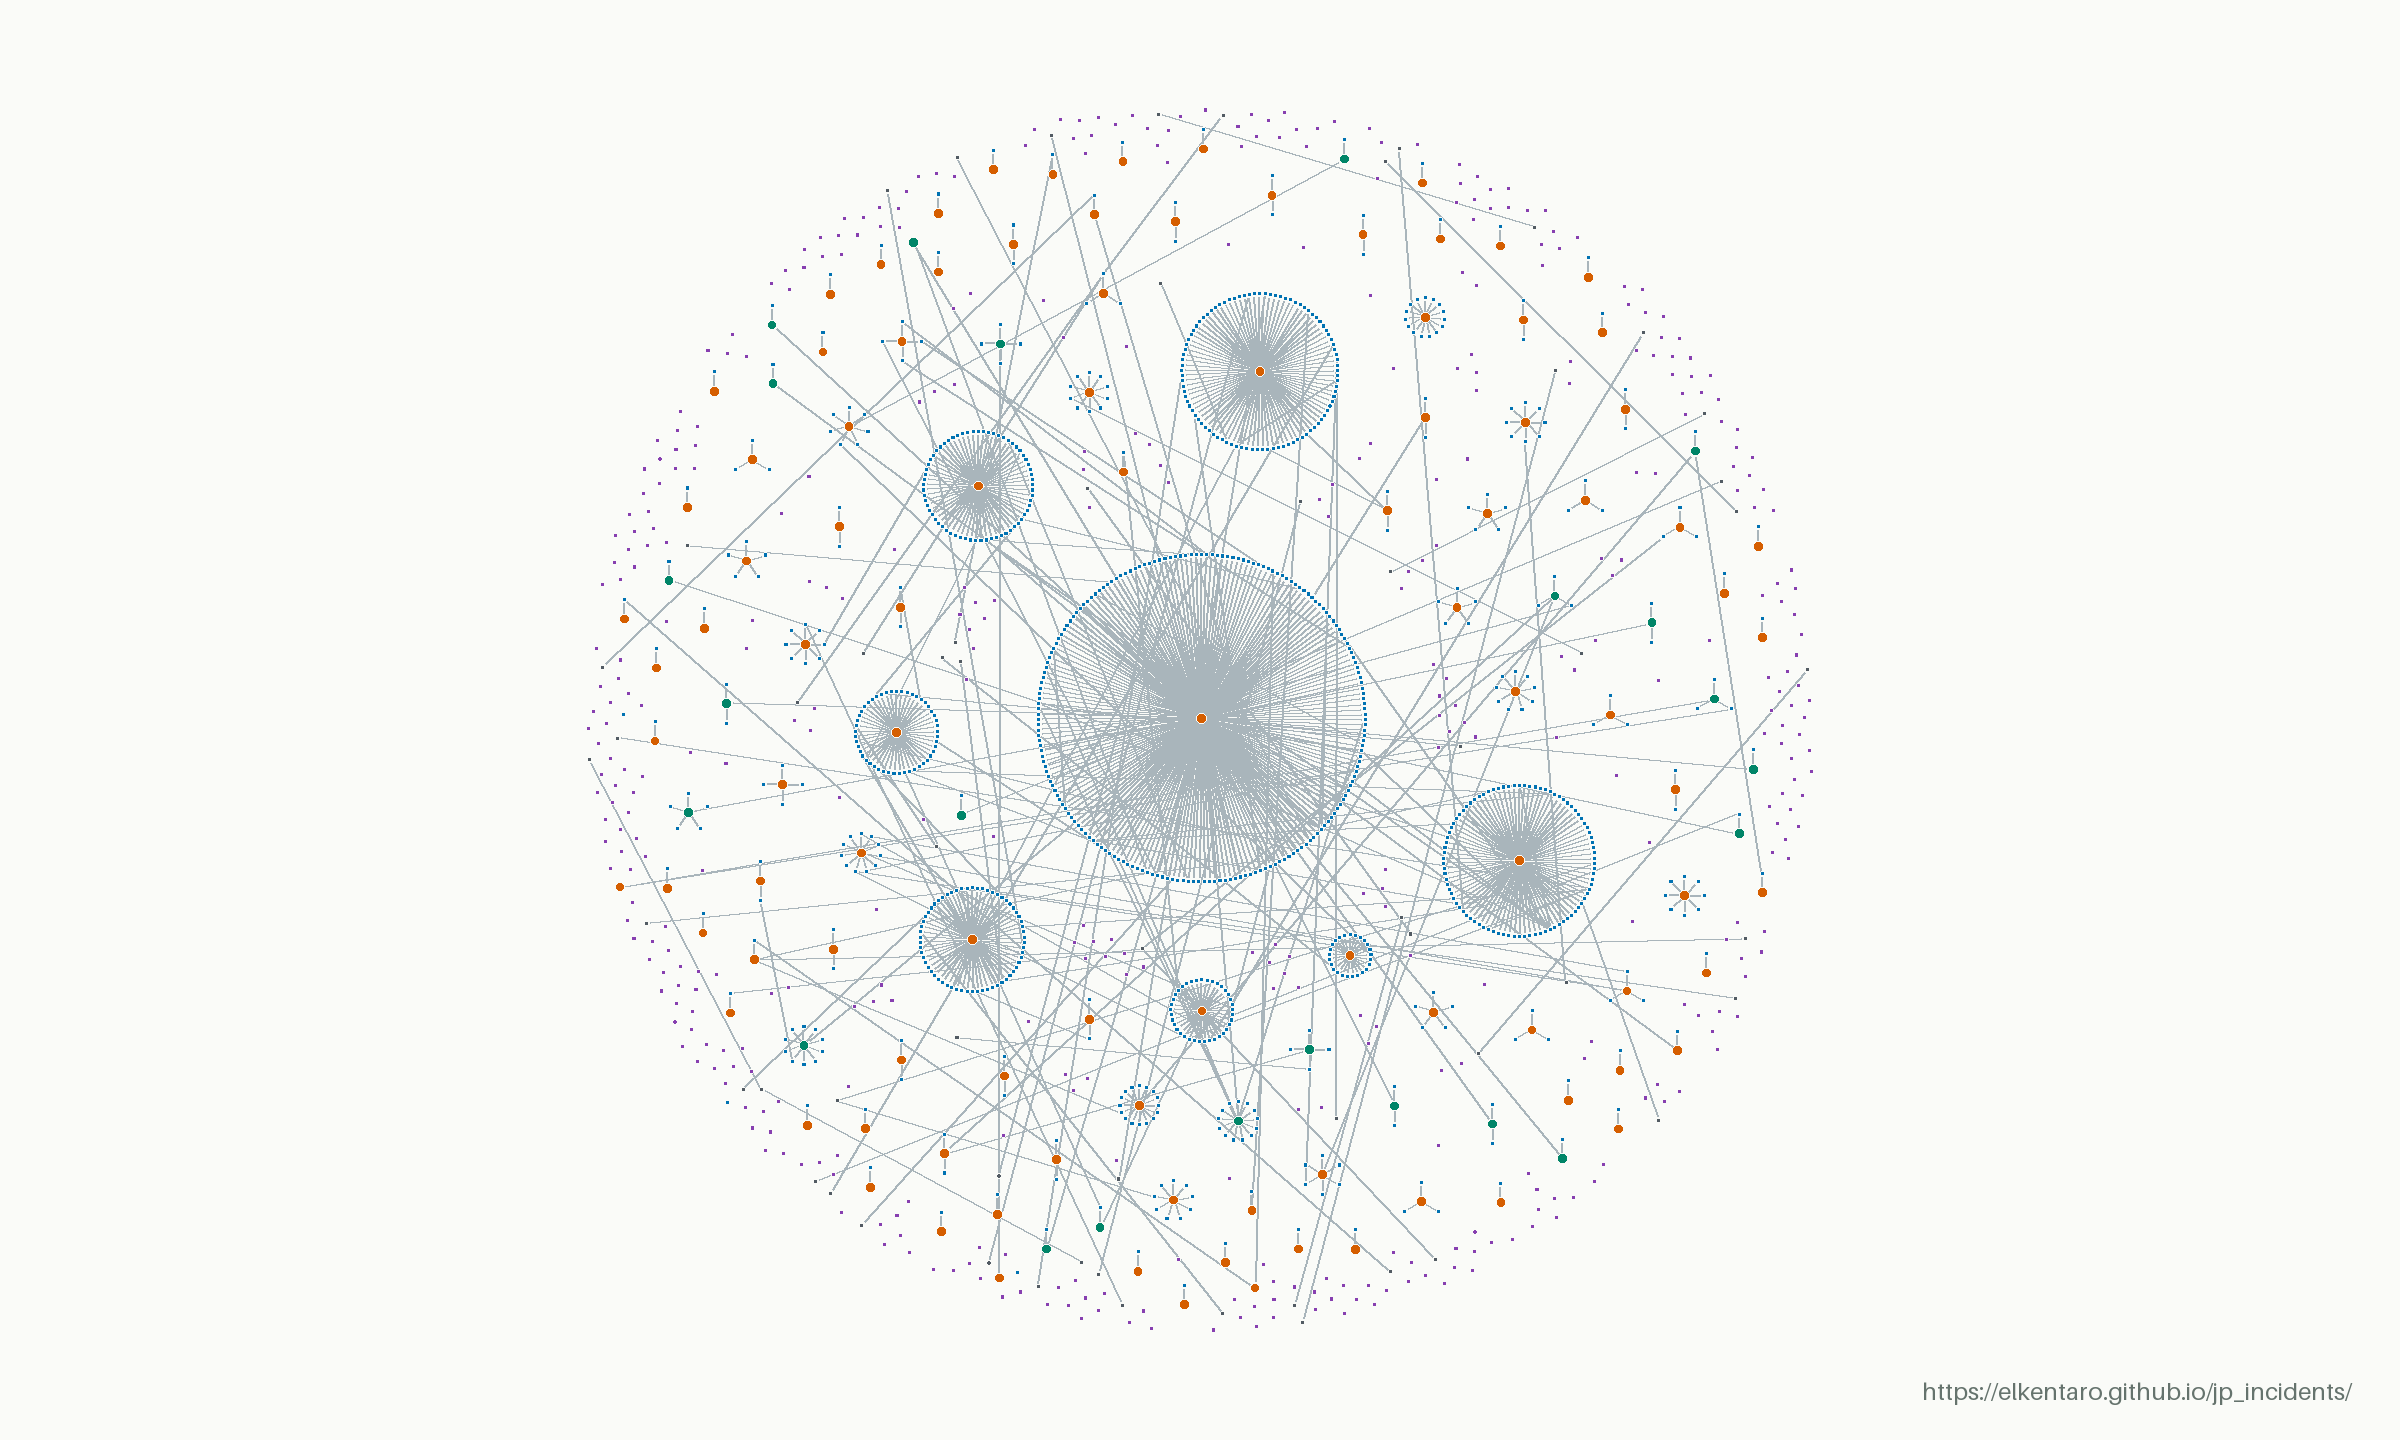
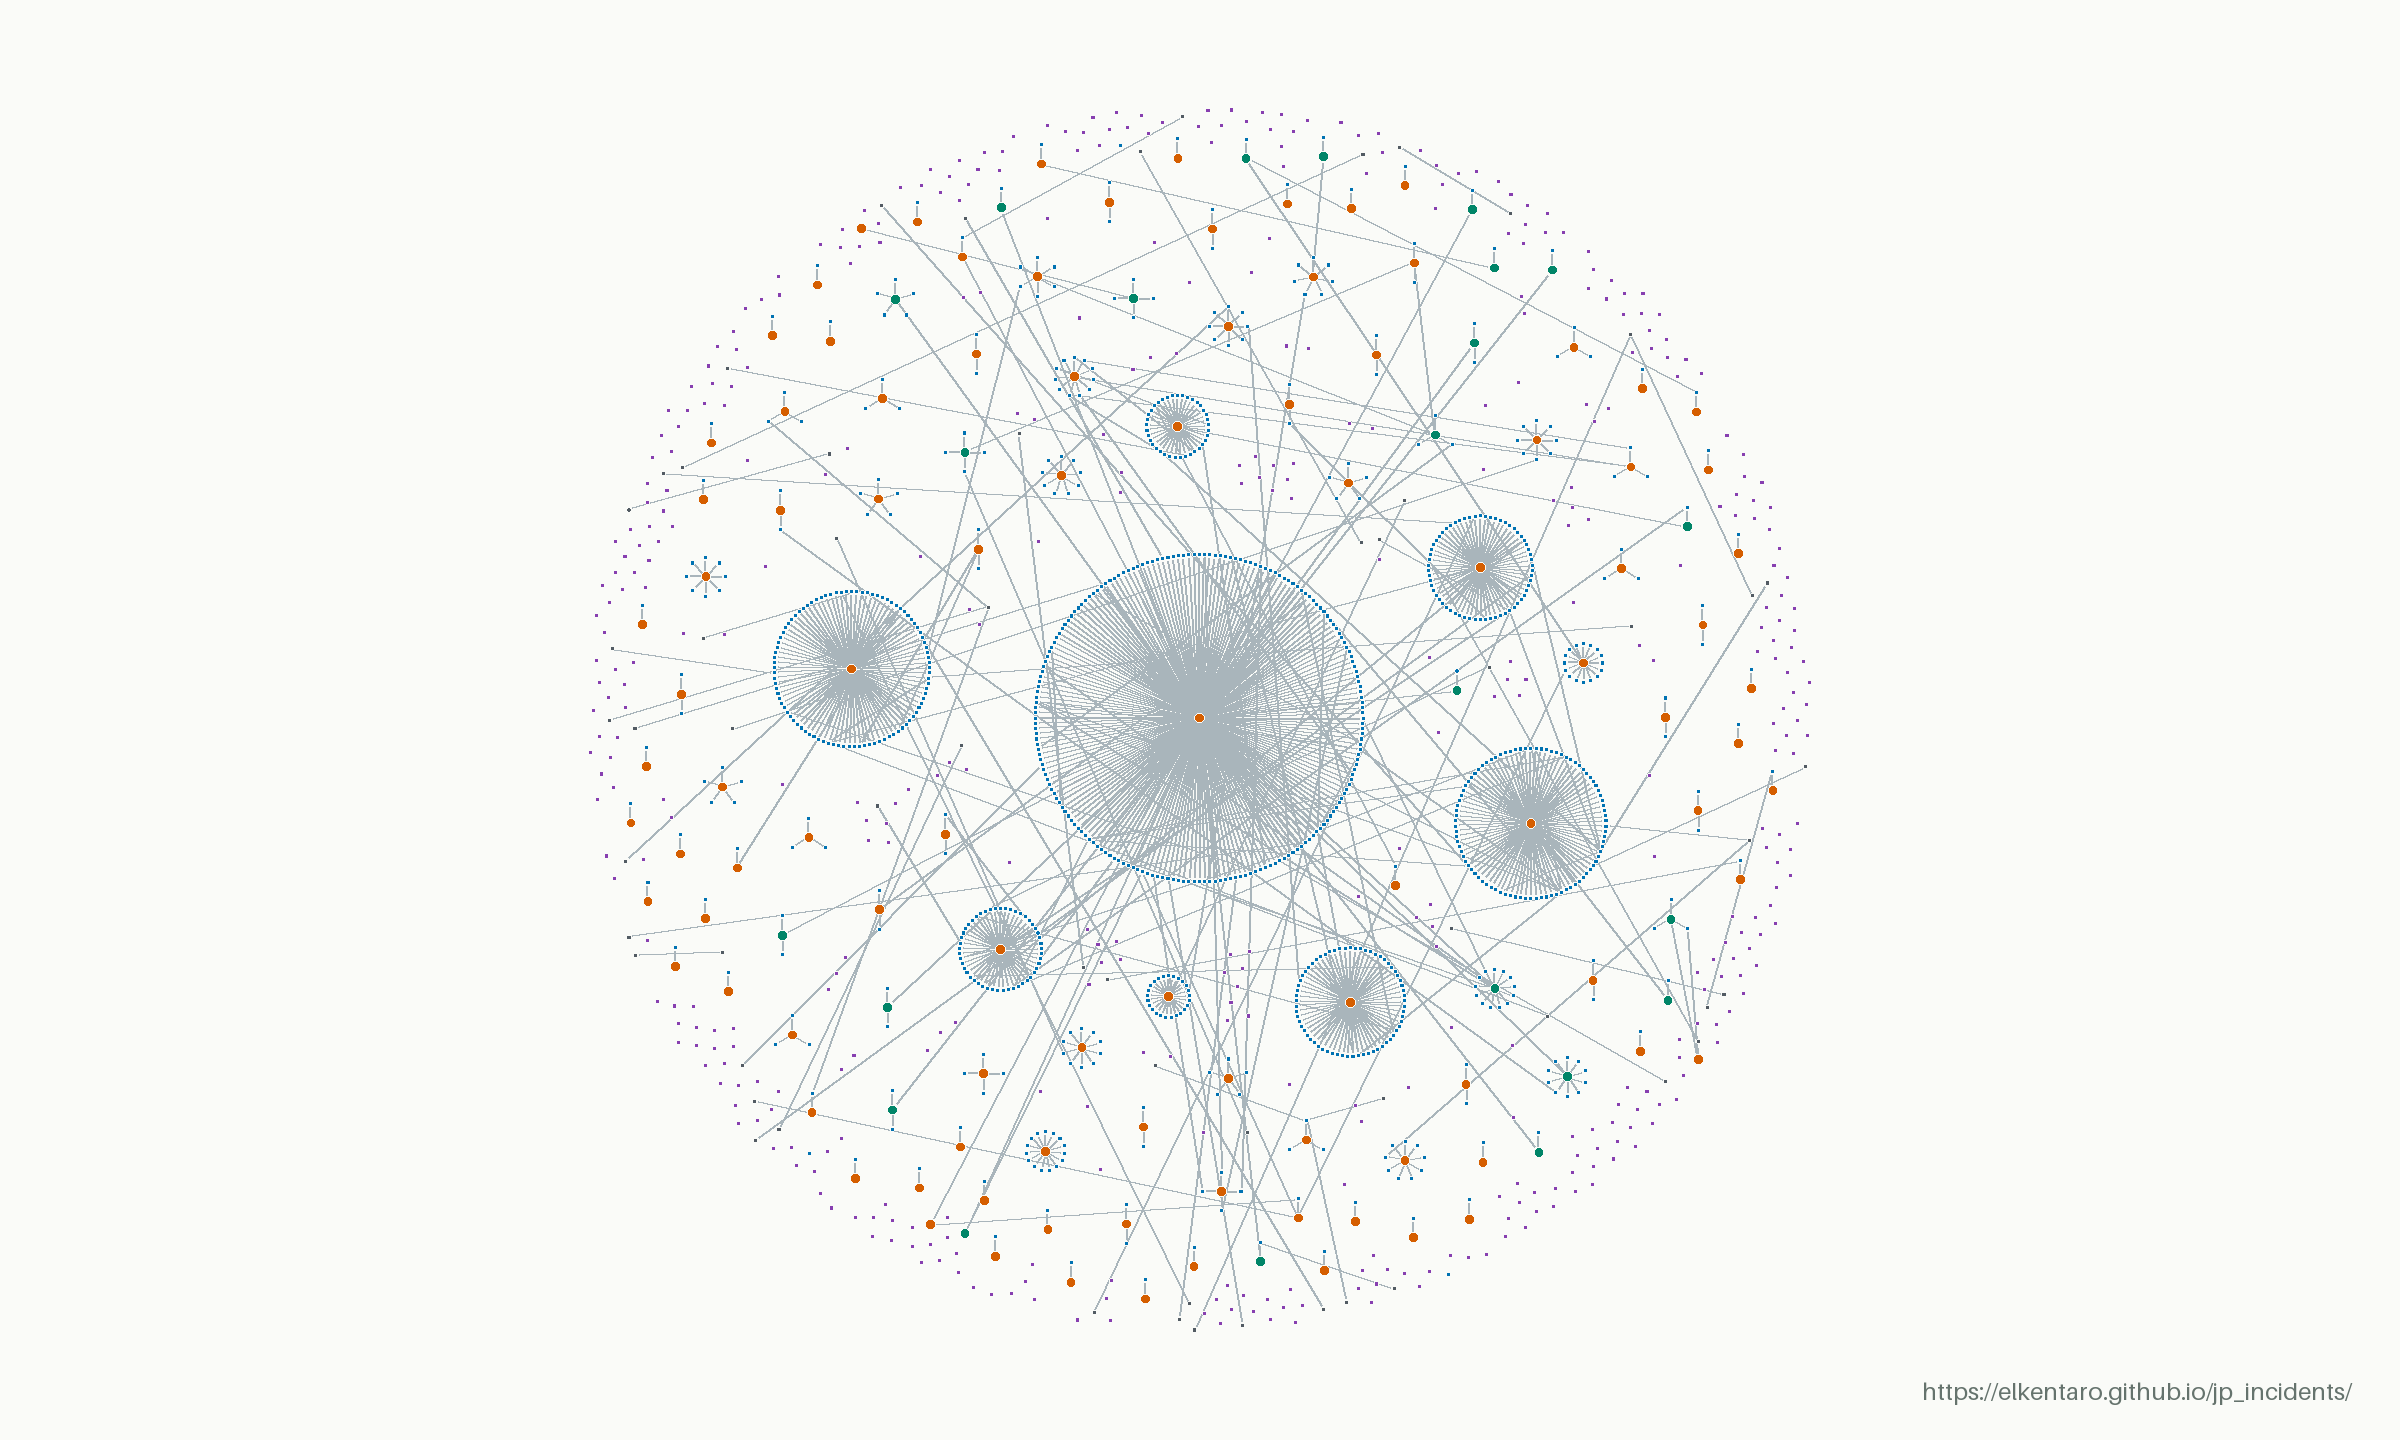
Update incident data (2026-11-20 18:18 UTC)

diff --git a/linkage.html b/linkage.html
@@ -36,13 +36,13 @@
         <div><dt data-copy="directUpstream">Upstream incidents</dt><dd id="upstream-count">101</dd></div>
         <div><dt data-copy="directStandalone">Standalone incidents</dt><dd id="standalone-count">500</dd></div>
       </dl>
-      <p class="direct-excluded"><strong id="downstream-count">945</strong> <span data-copy="directExcluded">downstream records excluded, including incidents with both roles.</span></p>
+      <p class="direct-excluded"><strong id="downstream-count">946</strong> <span data-copy="directExcluded">downstream records excluded, including incidents with both roles.</span></p>
       <p class="direct-definition" data-copy="directDefinition">Direct incidents = upstream + standalone, based on recorded causal links. Standalone incidents have no upstream or downstream causal links, but may have other links, such as separate events at the same organization.</p>
     </section>
     <dl class="map-stats">
-      <div><dt data-copy="total">Incidents in snapshot</dt><dd>1546</dd></div>
-      <div><dt data-copy="linked">With recorded connections</dt><dd>1102</dd></div>
-      <div><dt data-copy="links">Recorded connections</dt><dd>1071</dd></div>
+      <div><dt data-copy="total">Incidents in snapshot</dt><dd>1547</dd></div>
+      <div><dt data-copy="linked">With recorded connections</dt><dd>1103</dd></div>
+      <div><dt data-copy="links">Recorded connections</dt><dd>1072</dd></div>
       <div><dt data-copy="networks">Connected networks</dt><dd>83</dd></div>
     </dl>
     <figure class="map-figure">
@@ -50,7 +50,7 @@
         <img src="data/linkage-map.png" width="2400" height="1440" alt="Anonymized incident map. Orange upstream hubs connect to blue downstream incidents; purple unlinked incidents appear throughout the same map without connecting lines." data-copy-alt="alt">
       </div>
       <figcaption>
-        <div class="map-caption-meta"><span><span data-copy="updated">Last updated</span>: <time datetime="2026-11-20T17:16:08.896391+00:00">2026-11-20 17:16 UTC</time></span><a href="data/linkage-map.png" target="_blank" rel="noopener" data-copy="open">Open full-resolution image ↗</a></div>
+        <div class="map-caption-meta"><span><span data-copy="updated">Last updated</span>: <time datetime="2026-11-20T18:17:01.603163+00:00">2026-11-20 18:17 UTC</time></span><a href="data/linkage-map.png" target="_blank" rel="noopener" data-copy="open">Open full-resolution image ↗</a></div>
         <div class="map-key-section">
           <strong id="map-key-title" data-copy="key">Key</strong>
           <ul class="map-key" aria-labelledby="map-key-title">
@@ -69,7 +69,7 @@
       <section><h2 data-copy="readingTitle">Reading the map</h2><p data-copy="reading">Orange marks upstream incidents, blue downstream incidents, and purple unlinked incidents with no recorded connection. Teal marks incidents with both upstream and downstream roles; charcoal marks other related incidents. A missing connection does not establish that two incidents are unrelated.</p></section>
       <section><h2 data-copy="snapshotTitle">About this snapshot</h2><p data-copy="snapshot">The static image is refreshed when published incidents or relationships change, and at least every 24 hours during normal publication. Larger upstream clusters have extra spacing to keep their victims apart. Names, incident IDs, source links and incident dates are omitted; the connection pattern is retained. It is an overview of recorded relationships, not a complete map of cyber incidents in Japan.</p></section>
     </div>
-    <p class="map-source"><span data-copy="sourceUpdated">Source data updated</span>: <time datetime="2026-11-20T17:16:08+00:00">2026-11-20T17:16:08+00:00</time> · <a href="./" data-copy="browse">Browse the incident index</a></p>
+    <p class="map-source"><span data-copy="sourceUpdated">Source data updated</span>: <time datetime="2026-11-20T18:17:01+00:00">2026-11-20T18:17:01+00:00</time> · <a href="./" data-copy="browse">Browse the incident index</a></p>
   </main>
   <footer><div class="shell footer-inner"><p data-copy="footer">Public reports. Recorded relationships. An anonymized overview.</p><a href="./" data-copy="back">Back to incidents</a></div></footer>
   <script src="linkage.js?v=20261107-spacing" defer></script>
